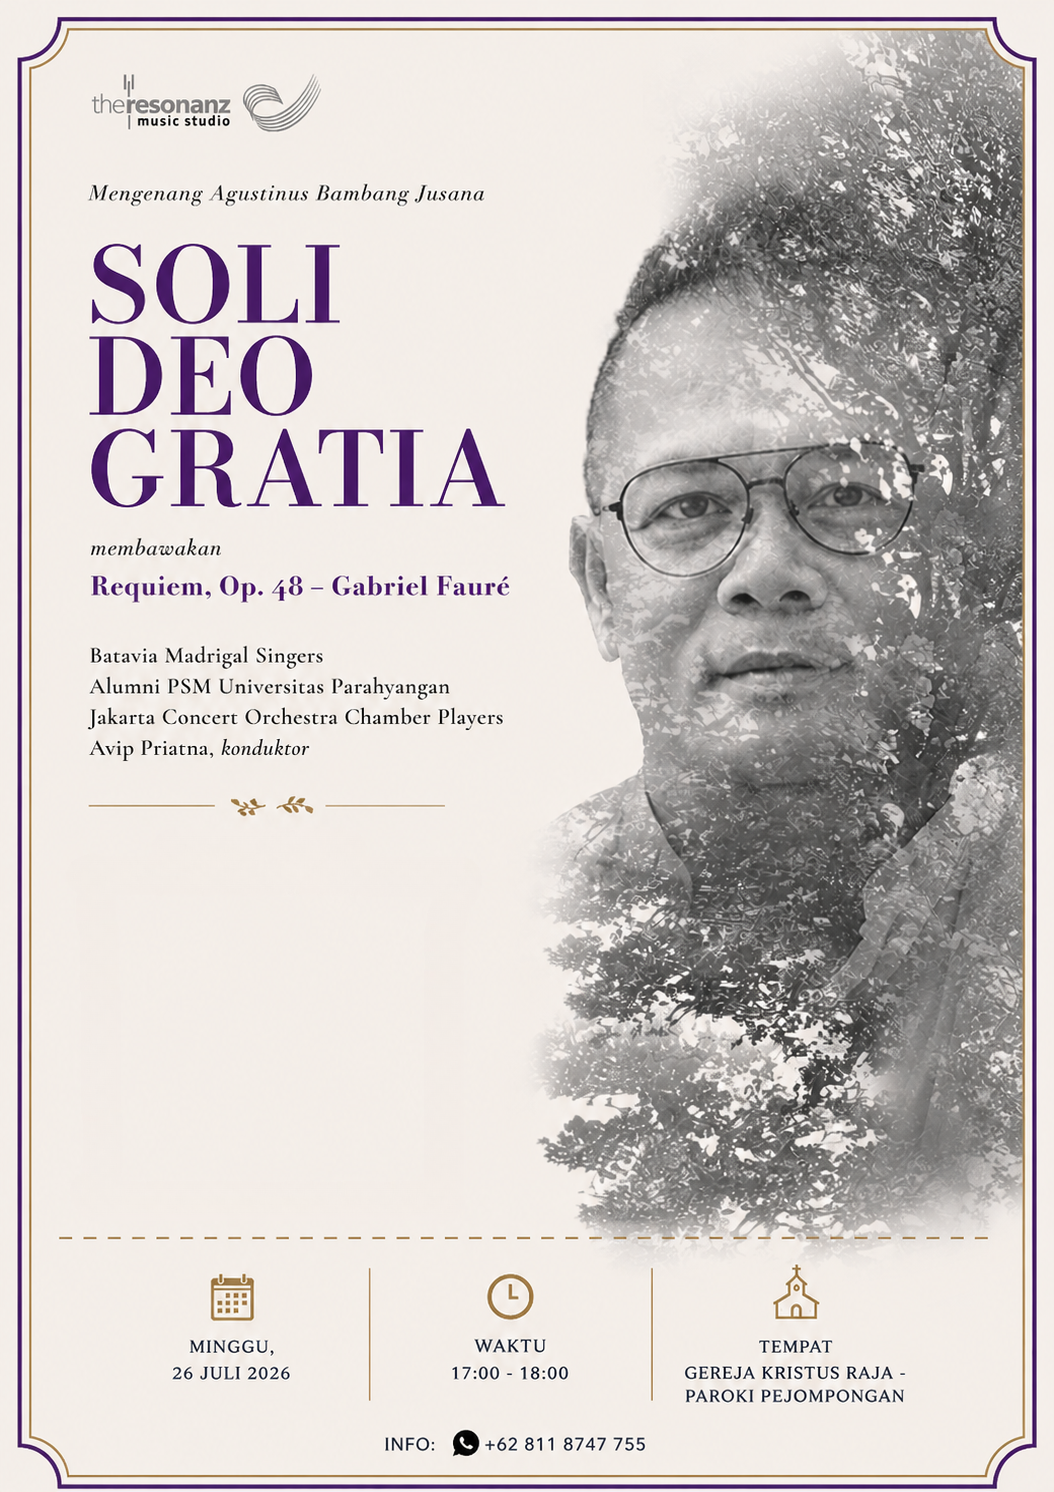
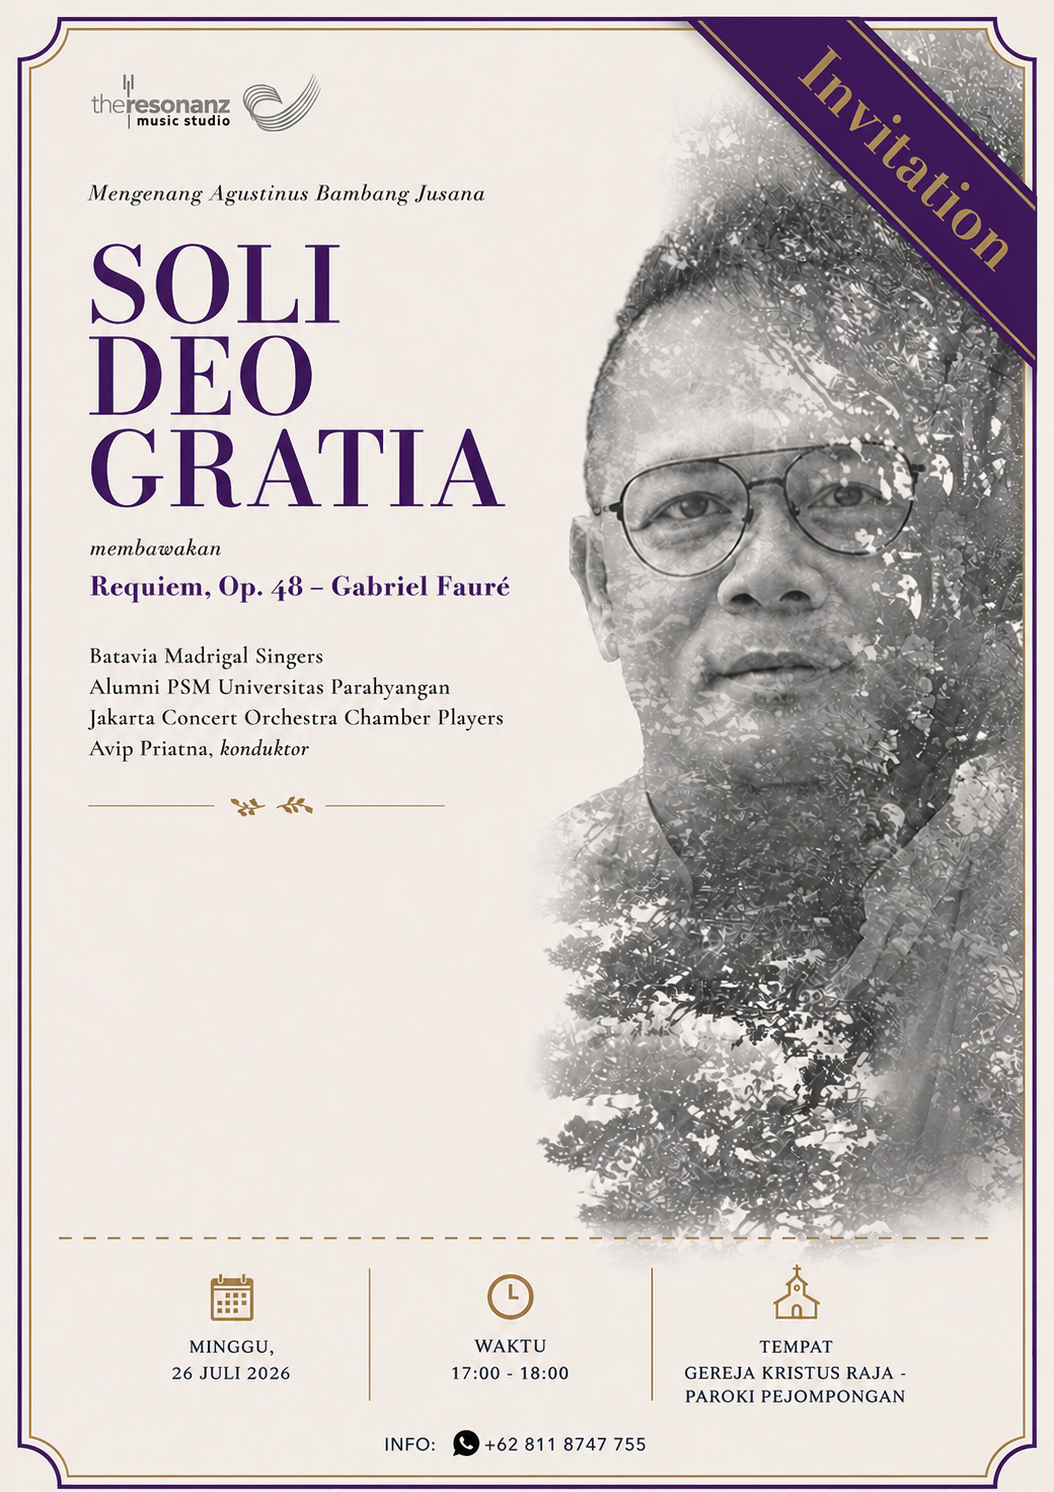
(unfinished) adjust ticket layout for guest and invitation

diff --git a/backend/app/Core/TicketPdfGenerator.php b/backend/app/Core/TicketPdfGenerator.php
@@ -8,7 +8,7 @@ use TCPDF;
  * Generates a PDF invitation ticket by overlaying a guest name and QR code
  * on top of the concert invitation template image.
  *
- * Template: backend/public/assets/images/invitation_ticket-soli_deo_gratia.png
+ * Template: backend/public/assets/images/guest_ticket-soli_deo_gratia.png
  * Image size: 1054 × 1492 px  →  rendered as A4 (210 × 297 mm) in the PDF
  *
  * Coordinate reference (all values in mm, origin = top-left corner of page):
@@ -52,7 +52,7 @@ class TicketPdfGenerator
 
     public function __construct()
     {
-        $this->templatePath = __DIR__ . '/../../public/assets/images/invitation_ticket-soli_deo_gratia.png';
+        $this->templatePath = __DIR__ . '/../../public/assets/images/guest_ticket-soli_deo_gratia.png';
         $this->qrGenerator = new QrCodeGenerator();
     }
 
